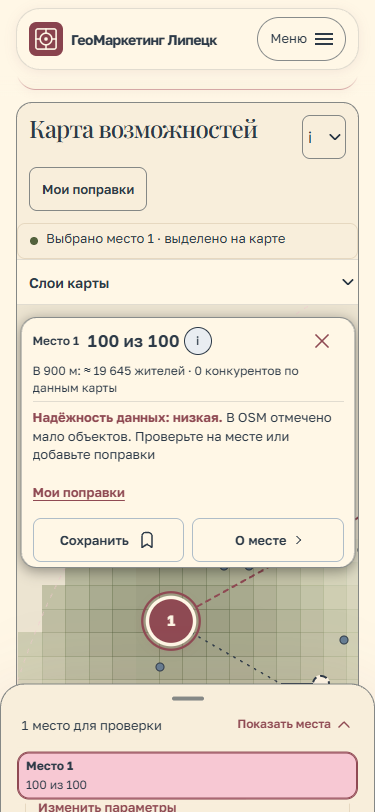
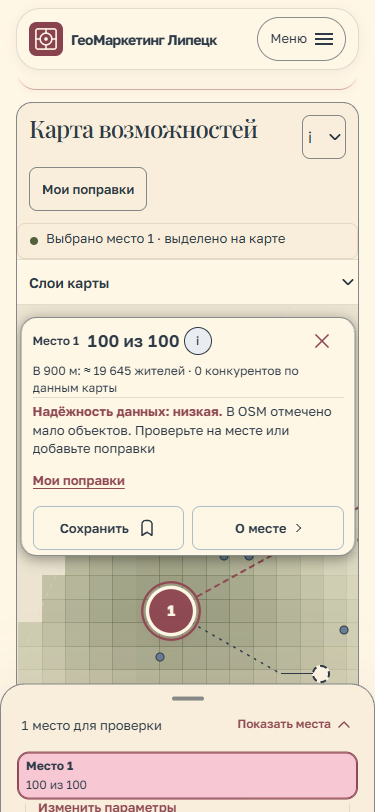
устойчивость мобильной выноски

diff --git a/static/js/map-inspector.js b/static/js/map-inspector.js
@@ -31,8 +31,9 @@ export function createMapInspector(map,{selectPoint=()=>{},selectRecommendation=
   if(compact) {
    const available = bottom - top;
    const standardHeight = Math.max(112, Math.floor((available + 24) * .45));
-   const height = compact.querySelector('.data-reliability')
-    ? Math.max(standardHeight, Math.min(compact.scrollHeight, Math.floor(available - 100)))
+   const reliability = compact.querySelector('.data-reliability');
+   const height = reliability
+    ? Math.max(standardHeight, Math.min(compact.scrollHeight, Math.floor(available - 116)))
     : standardHeight;
    element.style.setProperty('--inspection-max-height',height+'px');
    element.style.setProperty('--inspection-top',Math.max(0,top-rect.top)+'px');
@@ -43,7 +44,7 @@ export function createMapInspector(map,{selectPoint=()=>{},selectRecommendation=
    const overlay=element.getBoundingClientRect();
    const points=[anchor,...(data?.recommendations||[]).map(rec=>[rec.lat,rec.lng])];
    const paddingTop=Math.max(32,overlay.bottom-rect.top+28);
-   const paddingBottom=Math.max(58,rect.bottom-bottom+24);
+   const paddingBottom=Math.max(58,rect.bottom-bottom+(reliability ? 32 : 24));
    if(rect.height-paddingTop-paddingBottom>=48){
     map.fitBounds(points,{paddingTopLeft:[32,paddingTop],paddingBottomRight:[64,paddingBottom],maxZoom:map.getZoom(),animate:false});
    }
@@ -62,6 +63,8 @@ export function createMapInspector(map,{selectPoint=()=>{},selectRecommendation=
  }
  function card(title){
   const box=node('section','map-inspection');box.setAttribute('aria-label',title);box.setAttribute('role','region');
+  // Быстрое нажатие на выноску после метки не должно масштабировать карту.
+  box.addEventListener('click',event=>event.stopPropagation());
   const heading=node('div','map-inspection-heading'),h=node('h3','',title),x=button('×','map-inspection-close',()=>{close();map.getContainer().focus({preventScroll:true});});
   x.setAttribute('aria-label','Закрыть выноску');heading.append(h,x);box.append(heading);return box;
  }

diff --git a/static/css/map-inspector.css b/static/css/map-inspector.css
@@ -65,7 +65,7 @@
  .map-inspection-compact h3,.map-inspection-compact .map-inspection-desktop-facts,.map-inspection-save-long { display:none; }
  .map-inspection-compact .map-inspection-score { margin:0; font-size:clamp(16px,5vw,20px); }
  .map-inspection-compact .map-inspection-mobile-summary { display:block; font-size:12px; margin:0; padding-right:0; }
- .map-inspection-compact .data-reliability { margin-block-start:var(--space-1); }
+ .map-inspection-compact .data-reliability > p { margin-block:var(--space-1) 0; }
  .map-inspection-weak { display:inline-block; font-size:11px; vertical-align:middle; background:var(--palette-pink); color:var(--palette-ink); border-radius:8px; padding:2px 4px; }
  .map-inspection-compact .map-inspection-actions { display:grid; grid-template-columns:1fr 1fr; gap:8px; }
  .map-inspection-compact .button { width:100%; margin-top:4px; padding:4px 8px; }
